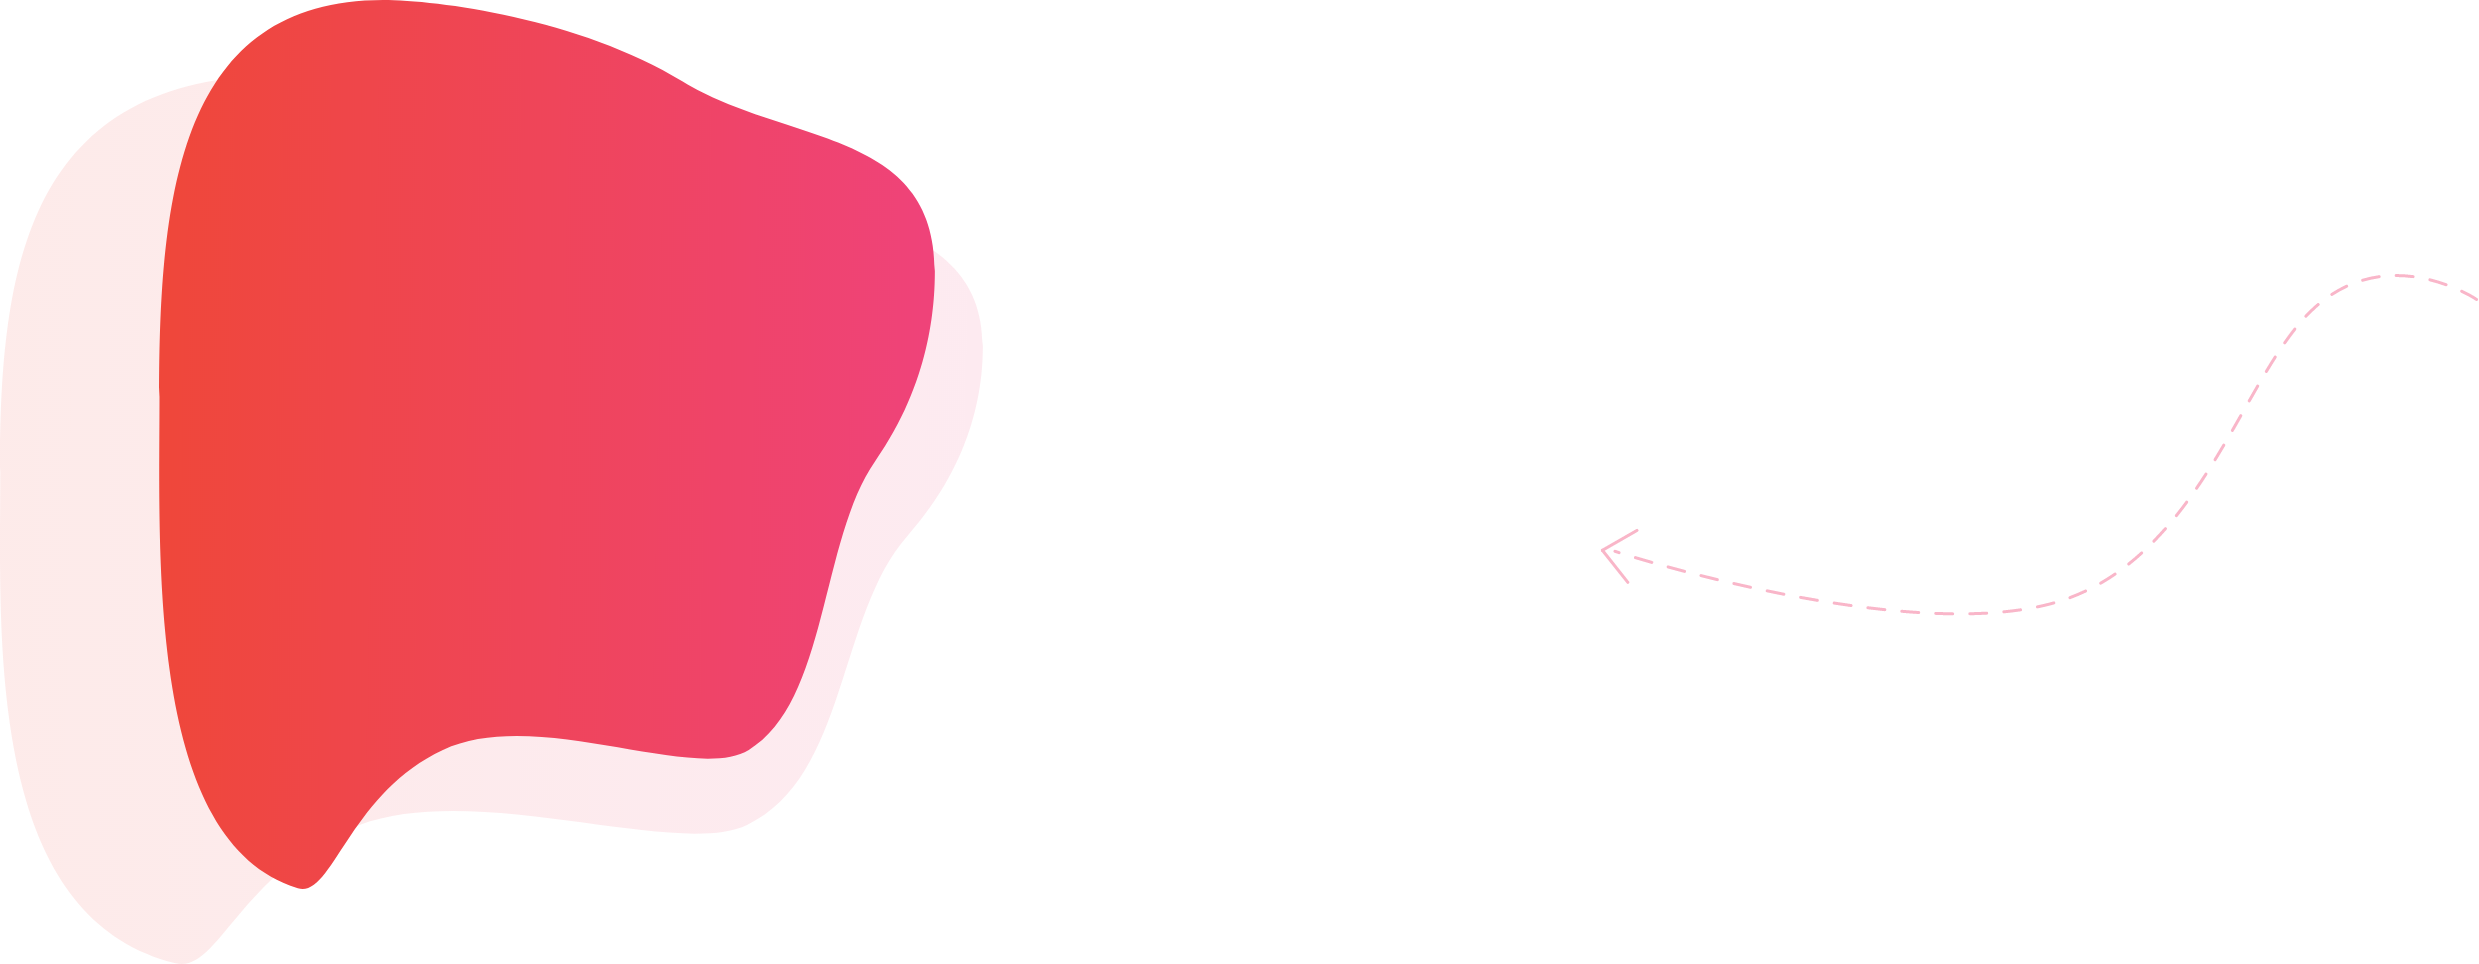
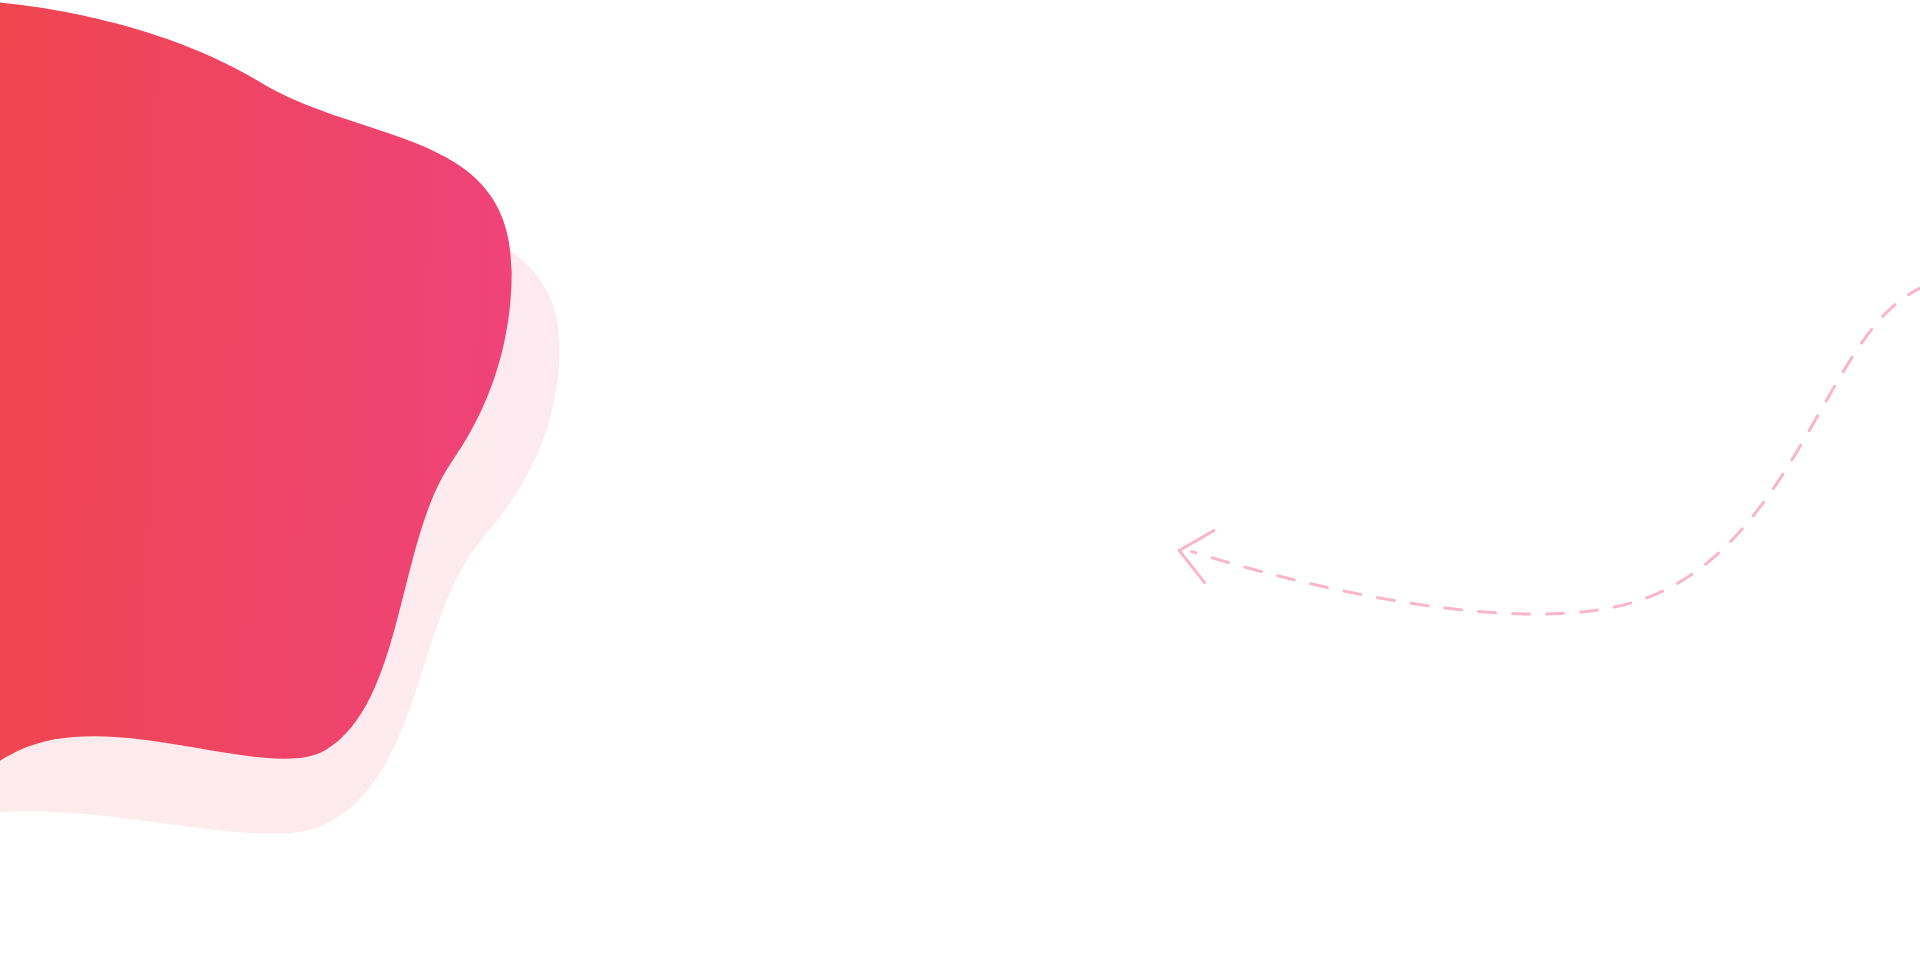
division

Changed region(s): [[0.0, 0.0, 0.375, 0.9336], [0.6875, 0.5913, 0.7188, 0.6224], [0.625, 0.5602, 0.6562, 0.5913]]

diff --git a/css/style.min.css b/css/style.min.css
@@ -1,2 +1,2 @@
-@import url("https://fonts.googleapis.com/css2?family=Raleway&display=swap");.container{width:60%;margin:0 auto}*{padding:0;margin:0}header{height:85vh;width:100%;position:relative}header .background img{display:block;width:100%;position:absolute;z-index:-1}header .background img.illustration{width:15%;left:35%;top:20%}header .title{width:30%;margin-left:20%;height:100%;display:flex;justify-content:center;flex-direction:column;flex-wrap:wrap}header .title>p{margin-top:50px;color:#fff}header .title .cta{margin-top:30px;display:flex;flex-wrap:wrap;justify-content:space-between;align-items:center}header .title .cta .btn{width:45%}@font-face{font-family:Impact;src:url(../assets/fonts/Impact.woff2) format("woff2"),url(../assets/fonts/Impact.woff) format("woff"),url(../assets/fonts/Impact.ttf) format("ttf")}h1{color:#fff;letter-spacing:4px;font-size:40px}h1,h2{font-family:Impact}h2{font-size:22px}h2,p{color:#232323}p{font-family:Raleway}.btn{border-radius:100px;background-color:#fff;box-sizing:border-box;cursor:pointer}.btn a,.btn p{color:#ef473a;width:100%;text-align:center;padding:10px 0;text-decoration:none;display:block}.btn a:visited,.btn p:visited{color:#fff}.btn.secondary{background:linear-gradient(90deg,#ef473a,#ef4379);border:1px solid #fff}.btn.secondary a,.btn.secondary p{color:#fff}.mockup{display:flex;align-items:center;padding-top:200px}.mockup>div{width:50%}.mockup>div:last-child{display:flex;justify-content:flex-end;flex-wrap:wrap}.mockup>div .iphone{height:600px;width:90%;margin:0 auto;border-radius:60px;box-shadow:0 0 42px 3px rgba(0,0,0,.15);border:1px solid #d2d2d2;overflow:hidden}.mockup>div article{width:85%;position:relative;opacity:.5}.mockup>div article.active{opacity:1}.mockup>div article:not(:first-child){margin-top:80px}.mockup>div article p{margin-top:20px}.mockup>div article:first-child:after{content:"1"}.mockup>div article:first-child:after,.mockup>div article:nth-child(2):after{font-family:Impact;color:#ef473a;font-size:75px;opacity:.3;position:absolute;left:-30px;top:50%;transform:translateY(-50%)}.mockup>div article:nth-child(2):after{content:"2"}.mockup>div article:nth-child(3):after{content:"3";font-family:Impact;color:#ef473a;font-size:75px;opacity:.3;position:absolute;left:-30px;top:50%;transform:translateY(-50%)}
[1 lines of base64/hex data omitted]
+@import url("https://fonts.googleapis.com/css2?family=Raleway&display=swap");.container{width:60%;margin:0 auto}*{padding:0;margin:0}header{height:829px;width:100%;position:relative;background-image:url(../assets/img/bg_2.png);background-size:cover;background-repeat:no-repeat}header .logo{position:absolute;width:100px;top:30px;left:30px}header .logo img{width:100%;display:block}header img.illustration{display:block;width:15%;position:absolute;z-index:-1;left:35%;top:20%}header .title{width:30%;margin-left:20%;height:75%;display:flex;justify-content:center;flex-direction:column;flex-wrap:wrap}header .title>p{margin-top:50px;color:#fff}header .title .cta{margin-top:30px;display:flex;flex-wrap:wrap;justify-content:space-between;align-items:center}header .title .cta .btn{width:45%}@font-face{font-family:Impact;src:url(../assets/fonts/Impact.woff2) format("woff2"),url(../assets/fonts/Impact.woff) format("woff"),url(../assets/fonts/Impact.ttf) format("ttf")}h1{color:#fff;letter-spacing:4px;font-size:40px}h1,h2{font-family:Impact}h2{font-size:22px}h2,p{color:#232323}p{font-family:Raleway}.btn{border-radius:100px;background-color:#fff;box-sizing:border-box;cursor:pointer}.btn a,.btn p{color:#ef473a;width:100%;text-align:center;padding:10px 0;text-decoration:none;display:block}.btn a:visited,.btn p:visited{color:#fff}.btn.secondary{background:linear-gradient(90deg,#ef473a,#ef4379);border:1px solid #fff}.btn.secondary a,.btn.secondary p{color:#fff}.mockup{display:flex;align-items:center;padding-bottom:40px;padding-top:10px}.mockup>div{width:50%}.mockup>div:last-child{display:flex;justify-content:flex-end;flex-wrap:wrap}.mockup>div .iphone{height:600px;width:90%;margin:0 auto;border-radius:60px;box-shadow:0 0 42px 3px rgba(0,0,0,.15);border:1px solid #d2d2d2;overflow:hidden}.mockup>div article{width:85%;position:relative;opacity:.5}.mockup>div article.active{opacity:1}.mockup>div article:not(:first-child){margin-top:80px}.mockup>div article p{margin-top:20px}.mockup>div article:first-child:after{content:"1"}.mockup>div article:first-child:after,.mockup>div article:nth-child(2):after{font-family:Impact;color:#ef473a;font-size:75px;opacity:.3;position:absolute;left:-30px;top:50%;transform:translateY(-50%)}.mockup>div article:nth-child(2):after{content:"2"}.mockup>div article:nth-child(3):after{content:"3";font-family:Impact;color:#ef473a;font-size:75px;opacity:.3;position:absolute;left:-30px;top:50%;transform:translateY(-50%)}.coach{position:relative;height:577px;display:flex;align-items:center;background-image:url(../assets/img/shape_arrow.png);background-size:cover;background-repeat:no-repeat;background-position:50%}.coach img{width:150px;left:10%;top:10%;position:absolute}.coach div.wrapper{width:60%;margin-left:40%}.coach div.wrapper p{margin-top:20px}.coach div.wrapper .btn{margin-top:60px;width:220px}.coach div.wrapper .btn p{margin-top:0}.division{height:600px;background:url(../assets/img/shape_division.png);background-size:50%;background-position-x:right;background-repeat:no-repeat;position:relative;display:flex;align-items:center}.division .container img{position:absolute;right:-80px;top:0;width:570px}.division .container .title{width:70%}.division .container .title p{margin-top:20px}
[1 lines of base64/hex data omitted]

diff --git a/css/style.css b/css/style.css
@@ -8,22 +8,31 @@
   margin: 0; }
 
 header {
-  height: 85vh;
+  height: 829px;
   width: 100%;
-  position: relative; }
-  header .background img {
-    display: block;
-    width: 100%;
+  position: relative;
+  background-image: url(../assets/img/bg_2.png);
+  background-size: cover;
+  background-repeat: no-repeat; }
+  header .logo {
     position: absolute;
-    z-index: -1; }
-    header .background img.illustration {
-      width: 15%;
-      left: 35%;
-      top: 20%; }
+    width: 100px;
+    top: 30px;
+    left: 30px; }
+    header .logo img {
+      width: 100%;
+      display: block; }
+  header img.illustration {
+    display: block;
+    width: 15%;
+    position: absolute;
+    z-index: -1;
+    left: 35%;
+    top: 20%; }
   header .title {
     width: 30%;
     margin-left: 20%;
-    height: 100%;
+    height: 75%;
     display: flex;
     justify-content: center;
     flex-direction: column;
@@ -82,7 +91,8 @@ p {
 .mockup {
   display: flex;
   align-items: center;
-  padding-top: 200px; }
+  padding-bottom: 40px;
+  padding-top: 10px; }
   .mockup > div {
     width: 50%; }
     .mockup > div:last-child {
@@ -137,3 +147,47 @@ p {
         left: -30px;
         top: 50%;
         transform: translateY(-50%); }
+
+.coach {
+  position: relative;
+  height: 577px;
+  display: flex;
+  align-items: center;
+  background-image: url(../assets/img/shape_arrow.png);
+  background-size: cover;
+  background-repeat: no-repeat;
+  background-position: center; }
+  .coach img {
+    width: 150px;
+    left: 10%;
+    top: 10%;
+    position: absolute; }
+  .coach div.wrapper {
+    width: 60%;
+    margin-left: 40%; }
+    .coach div.wrapper p {
+      margin-top: 20px; }
+    .coach div.wrapper .btn {
+      margin-top: 60px;
+      width: 220px; }
+      .coach div.wrapper .btn p {
+        margin-top: 0; }
+
+.division {
+  height: 600px;
+  background: url(../assets/img/shape_division.png);
+  background-size: 50%;
+  background-position-x: right;
+  background-repeat: no-repeat;
+  position: relative;
+  display: flex;
+  align-items: center; }
+  .division .container img {
+    position: absolute;
+    right: -80px;
+    top: 0;
+    width: 570px; }
+  .division .container .title {
+    width: 70%; }
+    .division .container .title p {
+      margin-top: 20px; }

diff --git a/index.html b/index.html
@@ -9,11 +9,10 @@
 </head>
 <body>
     <header>
-        <div class="background">
-            <img src="./assets/img/bg_2.png" alt="carte et illustration abstraite">
-            <img class="illustration" src="./assets/illustrations/dive.svg" alt="personnage plongeant dans un pot de peinture">
+        <div class="logo">
+            <img src="./assets/img/logo_white_baseline.svg" alt="logo nomads">
         </div>
-
+        <img class="illustration" src="./assets/illustrations/dive.svg" alt="personnage plongeant dans un pot de peinture">
         <div class="title">
             <h1>Prêt à relever <br> le défi ?</h1>
             <p>
@@ -50,6 +49,33 @@
                     <p>Nulla quis pellentesque quam. Praesent non accumsan lorem. Vivamus hendrerit interdum mi, sit
                         amet blandit diam mollis ut.</p>
                 </article>
+            </div>
+        </section>
+        <section class="coach">
+            <img src="./assets/illustrations/stretching.svg" alt="personnage s'étirant">
+            <div class="container">
+                <div class="wrapper">
+                    <h2>Le coach</h2>
+                    <p>
+                        Lorem ipsum dolor sit amet, consectetur adipiscing elit. Ut ultricies nulla et luctus aliquam. Sed vitae
+                        eleifend mauris, vel facilisis sem. Maecenas lacinia tempus magna, et efficitur quam porta id. 
+                    </p>
+                    <div class="btn secondary">
+                        <p>Download</p>
+                    </div>
+                </div>
+            </div>
+        </section>
+        <section class="division">
+            <div class="container">
+                <img src="./assets/illustrations/winning.svg" alt="personnage vainqueur avec trophée">
+                <div class="title">
+                    <h2>Rejoins TA divison</h2>
+                    <p>
+                        Lorem ipsum dolor sit amet, consectetur adipiscing elit. Ut ultricies nulla et luctus aliquam. Sed
+                        vitae eleifend mauris, vel facilisis sem.
+                    </p>
+                </div>
             </div>
         </section>
     </main>

diff --git a/css/sass/components/_header.scss b/css/sass/components/_header.scss
@@ -1,27 +1,38 @@
 header {
-    height: 85vh;
+    height: 829px;
     width: 100%;
     position: relative;
+    background-image: url(../assets/img/bg_2.png);
+    background-size: cover;
+    background-repeat: no-repeat;
 
-    .background {
+    .logo {
+        position: absolute;
+        width: 100px;
+        top: 30px;
+        left: 30px;
+
         img {
-            display: block;
             width: 100%;
+            display: block;
+        }
+    }
+
+    img {
+        &.illustration {
+            display: block;
+            width: 15%;
             position: absolute;
             z-index: -1;
-
-            &.illustration {
-                width: 15%;
-                left: 35%;
-                top: 20%;
-            }
+            left: 35%;
+            top: 20%;
         }
     }
 
     .title {
         width: 30%;
         margin-left: 20%;
-        height: 100%;
+        height: 75%;
         display: flex;
         justify-content: center;
         flex-direction: column;

diff --git a/css/sass/components/_coach.scss b/css/sass/components/_coach.scss
@@ -1,0 +1,35 @@
+.coach {
+    position: relative;
+    height: 577px;
+    display: flex;
+    align-items: center;
+    background-image: url(../assets/img/shape_arrow.png);
+    background-size: cover;
+    background-repeat: no-repeat;
+    background-position: center;
+    
+    img {
+        width: 150px;
+        left: 10%;
+        top: 10%;
+        position: absolute;
+    }
+
+    div.wrapper {
+        width: 60%;
+        margin-left: 40%;
+
+        p {
+            margin-top: 20px;
+        }
+
+        .btn {
+            margin-top: 60px;
+            width: 220px;
+
+            p {
+                margin-top: 0;
+            }
+        }
+    }
+}

diff --git a/css/sass/components/_divisions.scss b/css/sass/components/_divisions.scss
@@ -1,0 +1,28 @@
+.division {
+    height: 600px;
+    background: url(../assets/img/shape_division.png);
+    background-size: 50%;
+    background-position-x: right;
+    background-repeat: no-repeat;
+    position: relative;
+    display: flex;
+    align-items: center;
+    
+    .container {
+        img {
+            position: absolute;
+            right: -80px;
+            top: 0;
+            width: 570px;
+        }
+    
+        .title {
+            width: 70%;
+
+            p {
+                margin-top: 20px;
+            }
+        }
+    }
+
+}

diff --git a/css/sass/components/_mockup.scss b/css/sass/components/_mockup.scss
@@ -1,7 +1,8 @@
 .mockup {
     display: flex;
     align-items: center;
-    padding-top: 200px;
+    padding-bottom: 40px;
+    padding-top: 10px;
 
     > div {
         width: 50%;

diff --git a/css/sass/style.scss b/css/sass/style.scss
@@ -6,3 +6,5 @@
 @import './components/fonts';
 @import './components/buttons';
 @import './components/mockup';
+@import './components/coach';
+@import './components/divisions';
